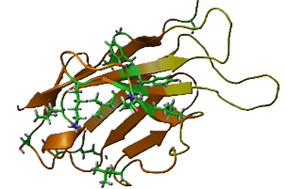
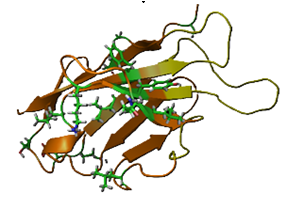
update picture

Changed region(s): [[0.0557, 0.0, 0.9756, 1.0], [0.1951, 0.2646, 0.3066, 0.3439]]

diff --git a/services/services.html b/services/services.html
@@ -36,11 +36,11 @@
 		</header>
 	</div>
 	<!-- ################################################################################################ -->
-	<div class="wrapper row3">
+	<div class="wrapper ">
 		<main class="hoc container clear">
-			<div class="content">
+			<div  style="height:600px;display: flex;  align-items: center;">
 
-				<div class="row"  style="height:600px;margin-top:0px;margin-bottom: 0px;">
+				<div class="row" style="text-align: center;margin: 0 auto;" >
 					<div class="col-md-6" style="margin-left: auto; margin-right: auto;vertical-align: middle;align-items: center;">
 							<a	href="antibody-sequencing.html"
 									title="Hybridoma antibody Sequencing service">
